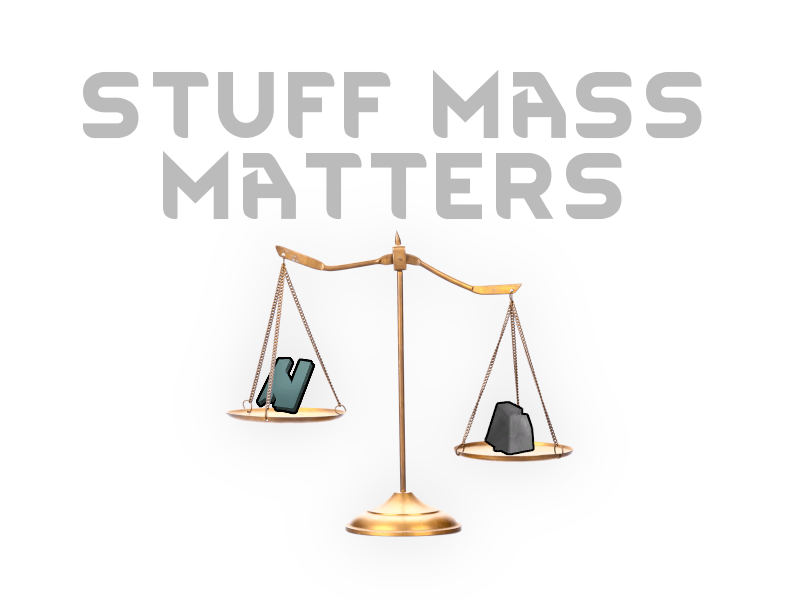
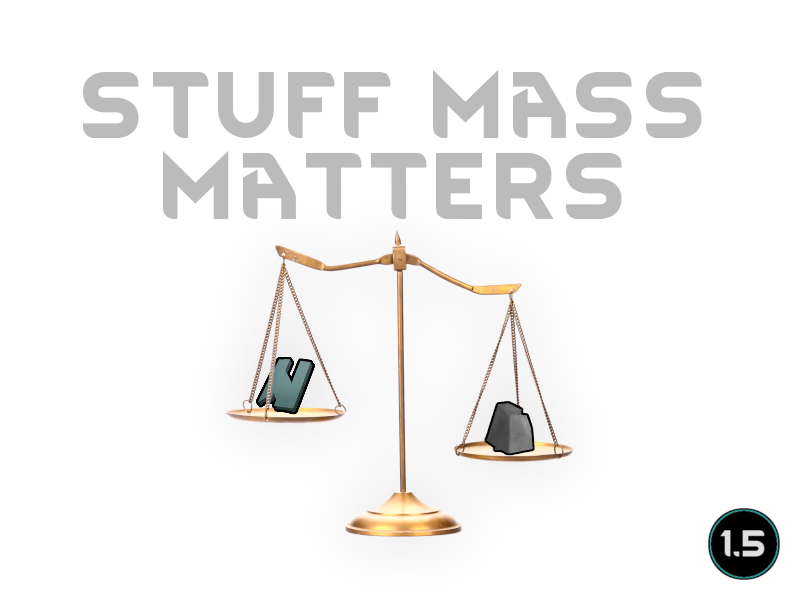
Mod updated for 1.5 and passed autotests

Changed region(s): [[0.875, 0.84, 1.0, 0.99]]

diff --git a/Source/StuffMassMatters/StatUtility_GetStatOffsetFromList.cs b/Source/StuffMassMatters/StatUtility_GetStatOffsetFromList.cs
@@ -1,9 +1,10 @@
+using System.Collections.Generic;
 using HarmonyLib;
 using RimWorld;
 
 namespace StuffMassMatters;
 
-[HarmonyPatch(typeof(StatUtility), "GetStatOffsetFromList")]
+[HarmonyPatch(typeof(StatUtility), "GetStatOffsetFromList", typeof(List<StatModifier>), typeof(StatDef))]
 public static class StatUtility_GetStatOffsetFromList
 {
     public static void Postfix(StatDef stat, ref float __result)

diff --git a/README.md b/README.md
@@ -1,6 +1,6 @@
 # StuffMassMatters
 
-![Image](https://i.imgur.com/buuPQel.png)
+![Image](https://i.imgur.com/iCj5o7O.png)
 
 
 Always found it strange that different "stuff" has different mass but things made with it always has the same mass.
@@ -14,23 +14,26 @@ Affects all items that can be made from different "stuff", mostly apparel but so
 
 I also added an option to let weight affect any negative movement speed factors on items. So for example a uranium plate armor has a much higher movement speed penalty than an armor made of plasteel. It will not change positive values, since these will probably only be used on items like power-armor that would not be affected by its weight.
 
-![Image](https://i.imgur.com/O0IIlYj.png)
+![Image](https://i.imgur.com/Ds0rBAD.png)
 
 Since modding is just a hobby for me I expect no donations to keep modding. If you still want to show your support you can gift me anything from my https://store.steampowered.com/wishlist/id/Mlie]Wishlist or buy me a cup of tea.
 
-https://ko-fi.com/G2G55DDYD]![Image](https://i.imgur.com/Utx6OIH.png)
+https://ko-fi.com/G2G55DDYD]![Image](https://i.imgur.com/VWG0yff.png)
 
 
-![Image](https://i.imgur.com/PwoNOj4.png)
+![Image](https://i.imgur.com/5xwDG6H.png)
 
 
 
 -  See if the the error persists if you just have this mod and its requirements active.
 -  If not, try adding your other mods until it happens again.
--  Post your error-log using https://steamcommunity.com/workshop/filedetails/?id=818773962]HugsLib and command Ctrl+F12
+-  Post your error-log using https://steamcommunity.com/workshop/filedetails/?id=818773962]HugsLib or the standalone https://steamcommunity.com/sharedfiles/filedetails/?id=2873415404]Uploader and command Ctrl+F12
 -  For best support, please use the Discord-channel for error-reporting.
 -  Do not report errors by making a discussion-thread, I get no notification of that.
 -  If you have the solution for a problem, please post it to the GitHub repository.
+-  Use https://github.com/RimSort/RimSort/releases/latest]RimSort to sort your mods
 
 
-https://steamcommunity.com/sharedfiles/filedetails/changelog/2787438435]Last updated 2023-02-17
+
+https://steamcommunity.com/sharedfiles/filedetails/changelog/2787438435]![Image](https://img.shields.io/github/v/release/emipa606/StuffMassMatters?label=latest%20version&style=plastic&labelColor=0070cd&color=white)
+
